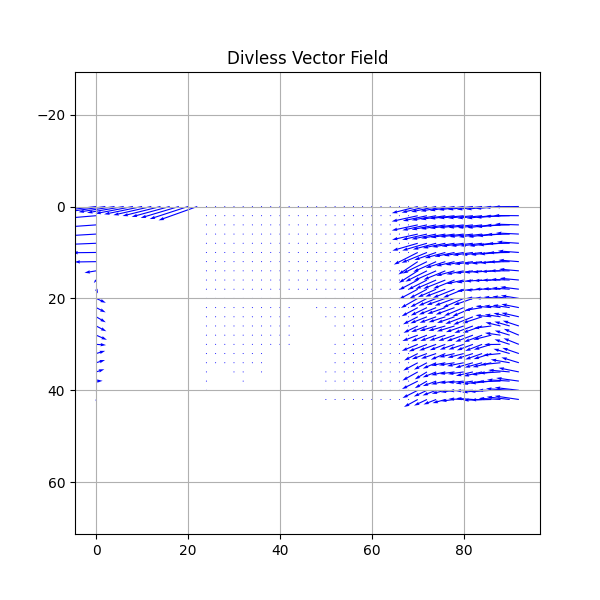
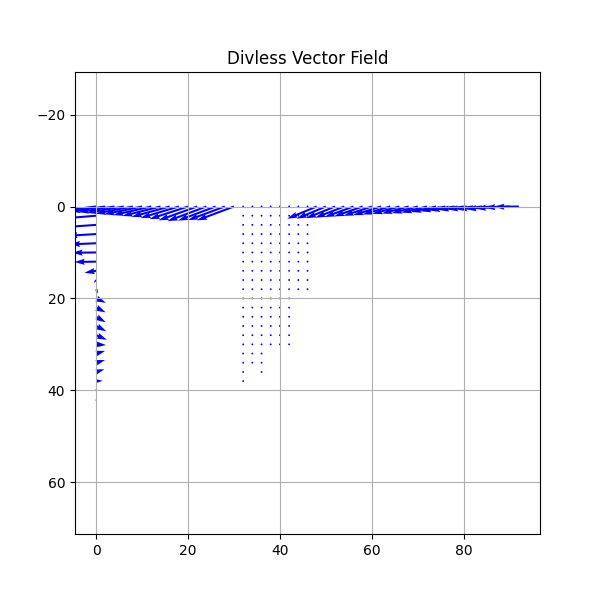
Patch 2.3.24 — Preliminary Integration of Helmholtz-Hodge Decomposition (Currently Nonfunctional)
Initial implementation attempt of Helmholtz-Hodge decomposition for 2D vector fields has been committed, but the output is currently incorrect or unstable under multiple tested conditions. The current method is intended to decompose a given velocity field into its solenoidal (divergence-free), irrotational (curl-free), and harmonic components, using a finite-difference-based Poisson solver with Neumann boundary conditions. However, several critical issues have been identified:

* The divergence and curl of the decomposed fields are inconsistent with theoretical expectations, suggesting numerical or implementation-level errors.

* Preliminary visualizations of the irrotational and solenoidal components show artifacts and structure that are not physically meaningful.

* Boundary behavior appears ill-posed, possibly due to incorrect treatment of ghost cells or mismatched boundary constraints in the Poisson solve.

* No validation is yet performed against synthetic ground-truth data (e.g., analytically decomposable fields).

* Current implementation assumes square domains and uniform spacing; this may not generalize to the nonsquare or real-world oceanographic datasets used elsewhere in the pipeline.

Next steps will involve:

* Adding numerical tests and synthetic benchmarks for validating each stage of the decomposition.

* Verifying correctness of the Laplacian and gradient operators in the discrete setting.
[…]

Changed region(s): [[0.48, 0.33, 0.87, 0.69], [0.12, 0.33, 0.39, 0.45], [0.15, 0.51, 0.18, 0.6]]

diff --git a/plots/visualizing_noise.py b/plots/visualizing_noise.py
@@ -15,7 +15,7 @@ from data_prep.data_initializer import DDInitializer
 from ddpm.helper_functions.compute_divergence import compute_divergence
 
 # Types of noise to test
-from noising_process.incompressible_gp.adding_noise.divergence_free_noise import exact_div_free_field_from_stream, divergence_free_noise, normalized_divergence_free_noise, gaussian_at_end_divergence_free_noise, gaussian_each_step_divergence_free_noise, stream_function_noise
+from noising_process.incompressible_gp.adding_noise.divergence_free_noise import exact_div_free_field_from_stream, gaussian_each_step_divergence_free_noise, generate_div_free_noise, layered_div_free_noise
 
 
 
@@ -26,13 +26,13 @@ data_init = DDInitializer()
 output_dir = os.path.join(os.path.dirname(os.path.abspath(__file__)), 'outputs')
 
 # CSV
-csv_file = os.path.join(output_dir, f"divergences_EDFFFS.csv")
+csv_file = os.path.join(output_dir, f"divergences_.csv")
 with open(csv_file, mode='w', newline='') as file:
     writer = csv.writer(file)
     writer.writerow(['Number', 'Divergence'])
 
 # I've lost the plot
-plot_file = os.path.join(output_dir, f"div_plot_EDFFFS.png")
+plot_file = os.path.join(output_dir, f"div_plot_divergence_free_noise.png")
 
 
 # Generate vector field images
@@ -44,7 +44,7 @@ tensor_to_draw_y = data_init.validation_tensor[:, :, 1, 0]
 
 # IMAGE GENERATION LOOP
 for i in range(500):
-    vx, vy = exact_div_free_field_from_stream(94, 44, 1)
+    vx, vy = gaussian_each_step_divergence_free_noise(94, 44, 1)
     tensor_to_draw_x = vx
     tensor_to_draw_y = vy
 
@@ -61,7 +61,7 @@ for i in range(500):
 
 # Create GIFS
 images = [imageio.imread(f) for f in sorted(filenames)]
-imageio.mimsave(output_dir + "\\vector_fields_EDFFFS.gif", images, fps=15)  # Adjust fps as needed
+imageio.mimsave(output_dir + "\\vector_fields_divergence_free_noise.gif", images, fps=15)  # Adjust fps as needed
 
 # No more 1000+ image pushes :(
 for f in filenames:

diff --git a/ddpm/helper_functions/HH_decomp.py b/ddpm/helper_functions/HH_decomp.py
@@ -25,7 +25,6 @@ with open(csv_file, mode='w', newline='') as file:
 # I've lost the plot
 plot_file = os.path.join(output_dir, f"div_plot_validation_tensor.png")
 
-
 # Load your velocity field
 data_init = DDInitializer()
 u = data_init.validation_tensor[:, :, 0, 0]
@@ -53,7 +52,7 @@ def compute_divergence(u, v, dx):
 
 # Mask: 1 = valid region (ocean), 0 = land
 mask = np.ones((Nx, Ny), dtype=bool)
-mask[:, :] = 0  # no mask
+mask[Nx//3:Nx//2, :] = 0  # no mask
 
 
 
